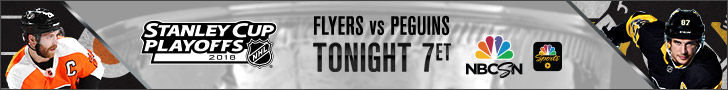
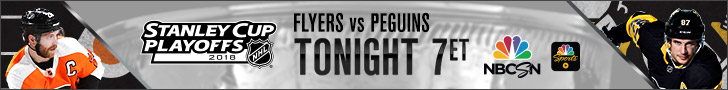
728x90

Changed region(s): [[0.3929, 0.3778, 0.8159, 0.8667], [0.3929, 0.1333, 0.6346, 0.4]]

diff --git a/SCP_18/MEDIA-BUY/042018/html_css/nhl_scp18_728x90_NATIONAL_041818_TONIGHT/style.css b/SCP_18/MEDIA-BUY/042018/html_css/nhl_scp18_728x90_NATIONAL_041818_TONIGHT/style.css
@@ -75,7 +75,7 @@ body{
 	#logo_nbcsn {
 	/* ADJUST POSITION */
 		position: absolute;
-		left: 466px;
+		left: 484px;
 		top: 35px;	
 		width: 96px;
 		height: 43px;
@@ -126,10 +126,10 @@ body{
 	#tunein {
 	/* ADJUST POSITION, WIDTH */
 		position: absolute;
-		left: 313px;
-		top: 15px;	
-		width: 147px;
-		height: 57px;
+		left: 294px;
+		top: 12px;	
+		width: 175px;
+		height: 64px;
 		background-image: url(images/tunein_tonight.png);
         background-repeat: no-repeat;
 	}
